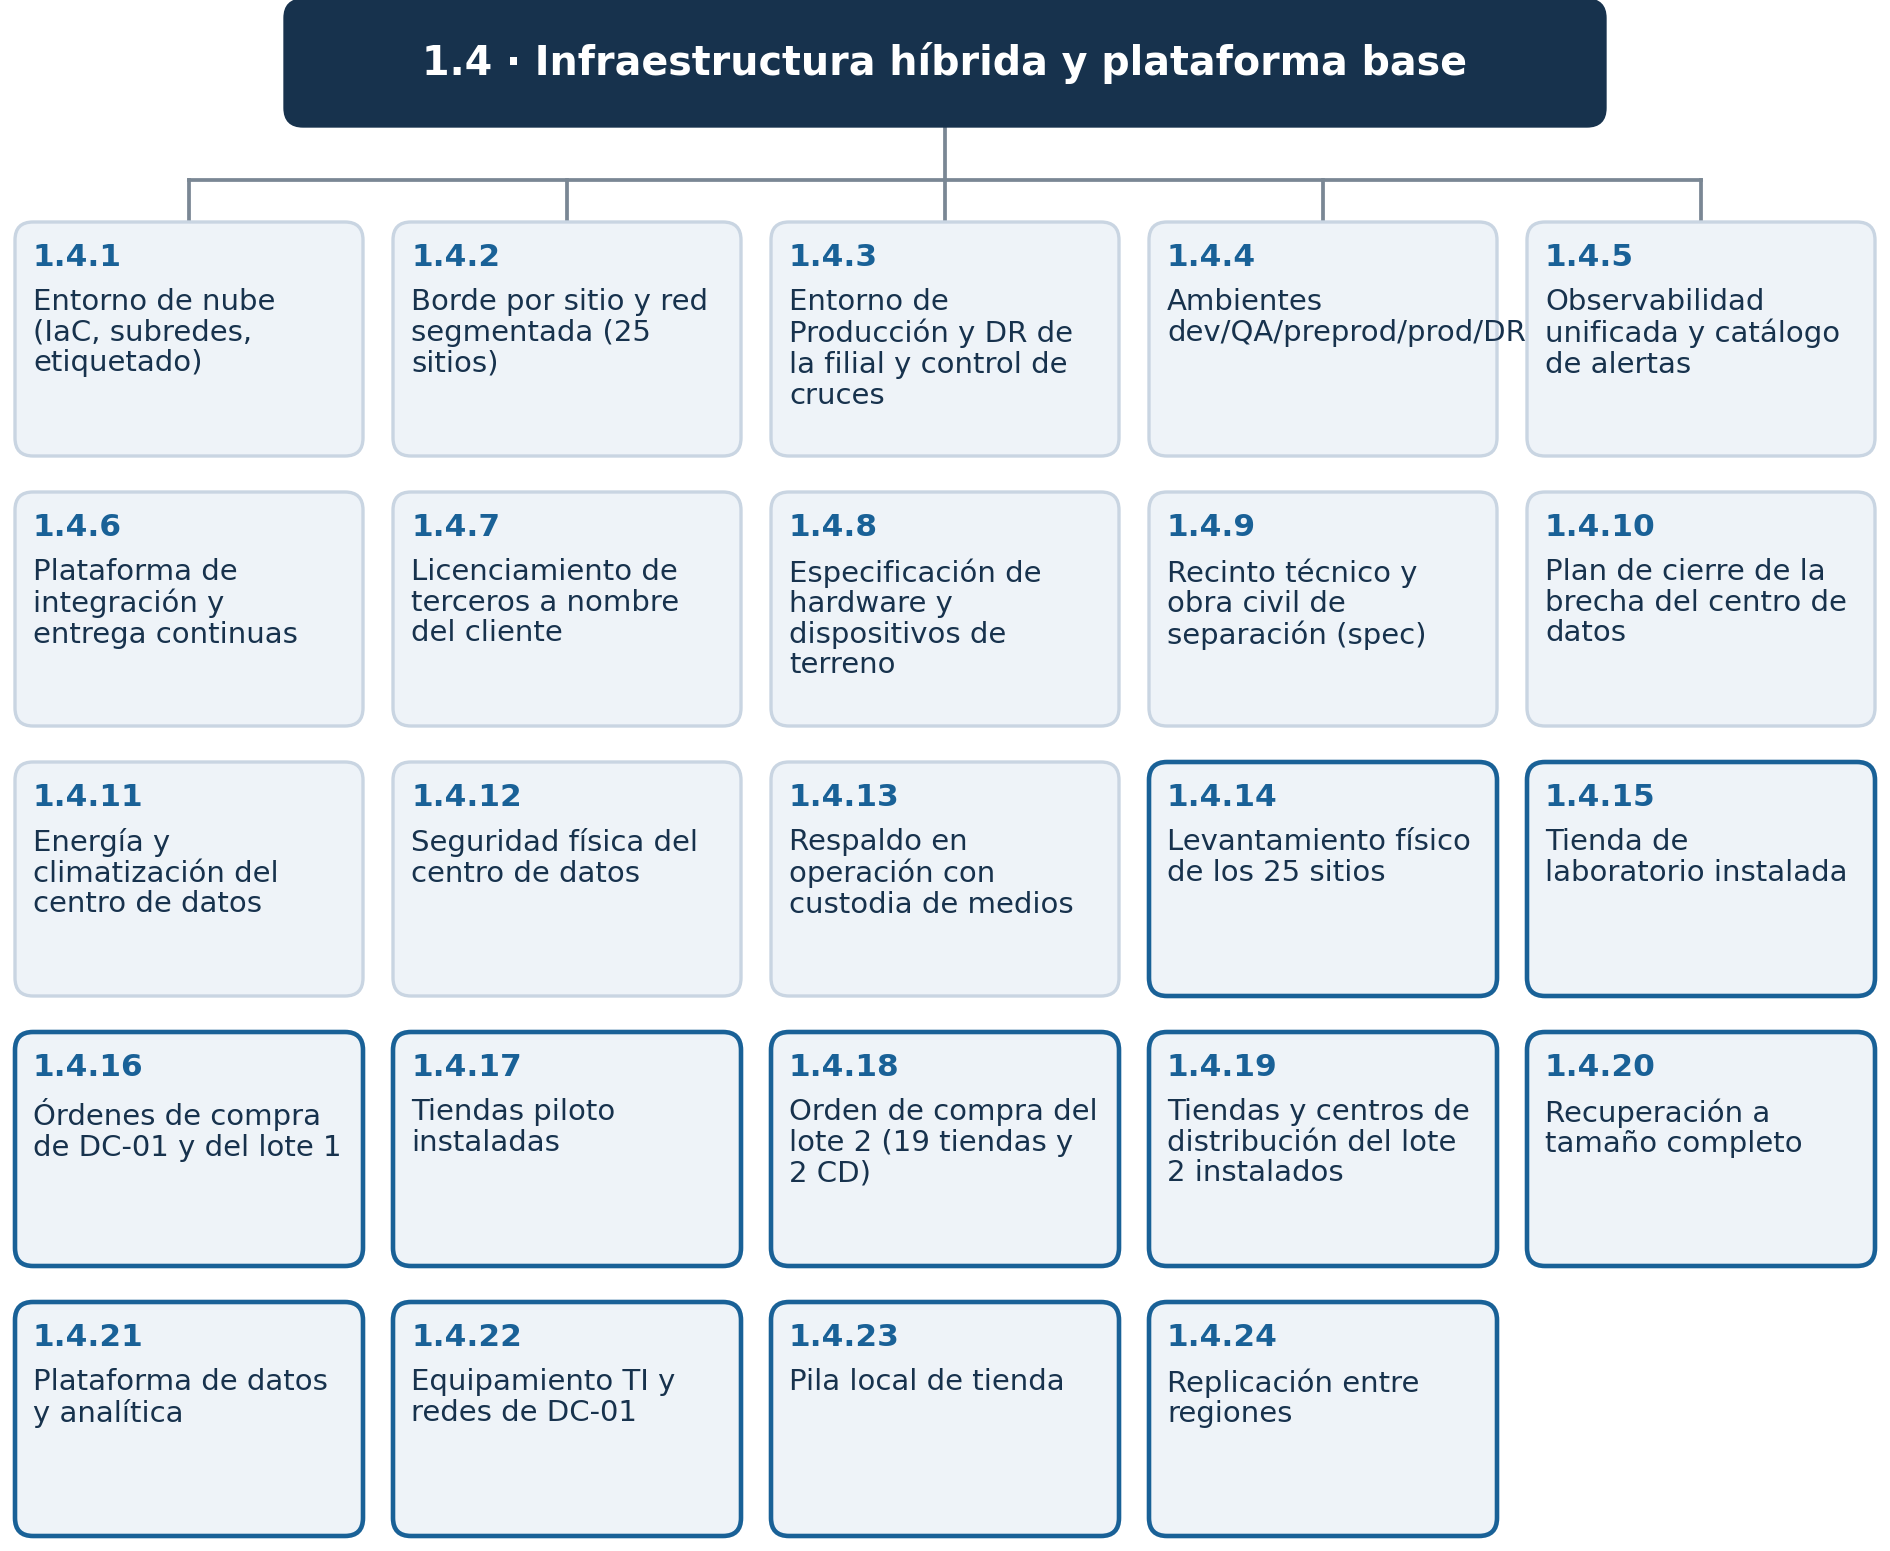
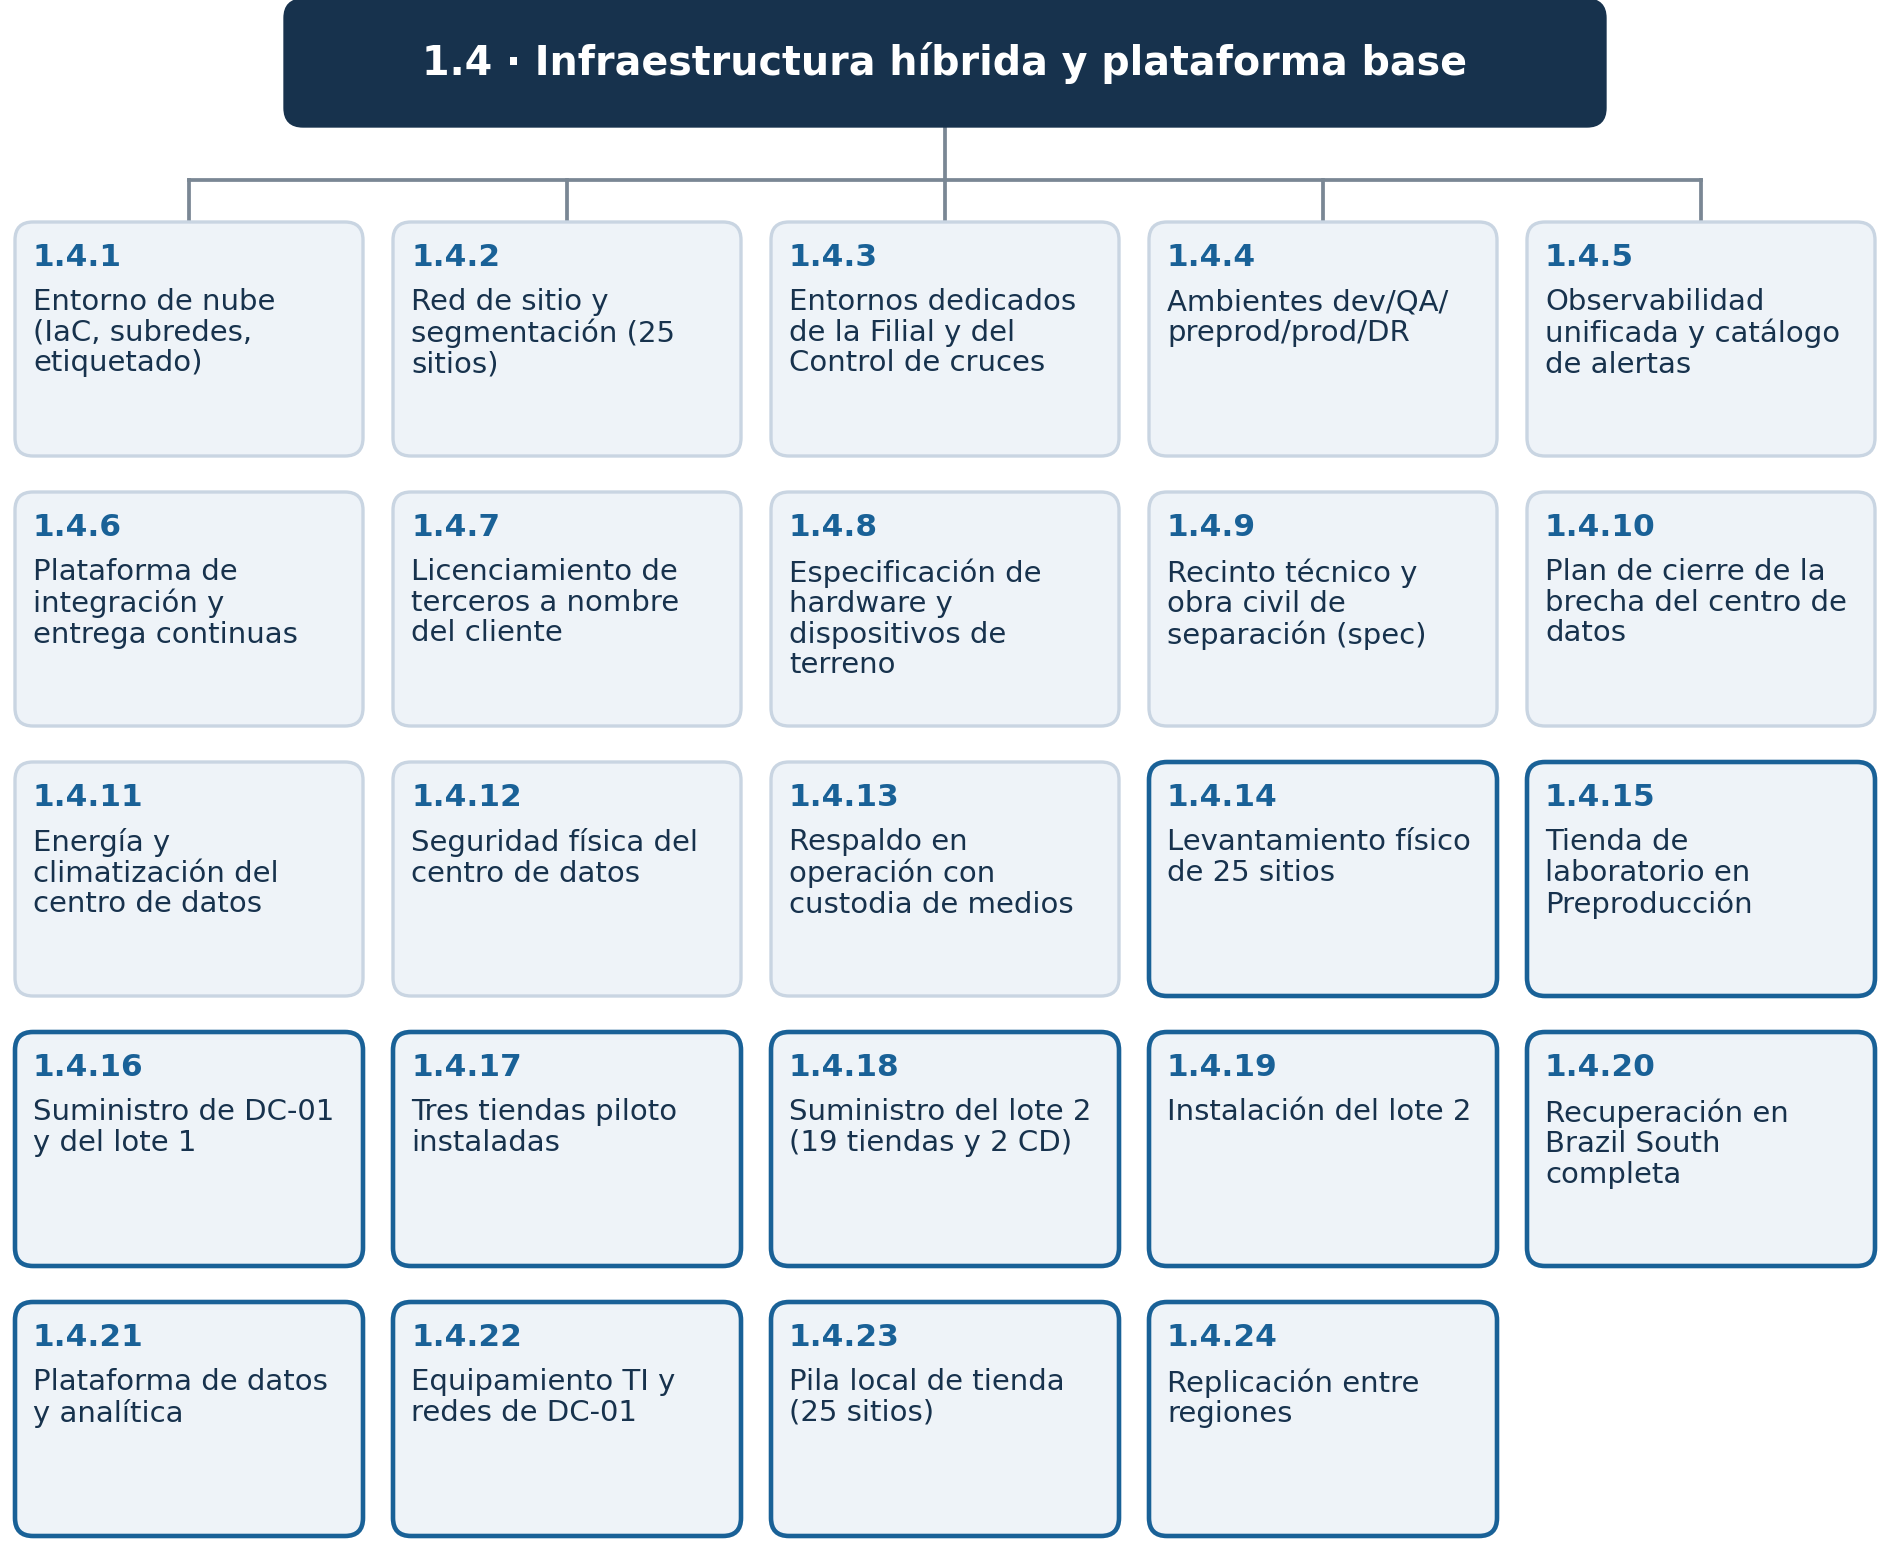
Unifica los nombres de los paquetes nuevos en el SD-07
El árbol de la rama 1.4 usa los mismos nombres que las láminas Gantt y
el diccionario del T-14, y la tabla de láminas remite a T-14.1 a T-14.18.

diff --git a/04_Adjuntos/diagramas/diag-07-06_edt-raiz-y-ramas.py b/04_Adjuntos/diagramas/diag-07-06_edt-raiz-y-ramas.py
@@ -2,6 +2,7 @@
 
 Reemplazan las imágenes importadas sd07-edt1.0/1.4/1.8.png, que mostraban 13 paquetes en 1.4 y 8 en 1.8.
 Datos: red v2/v3 del SD-07 (paquetes 1.4.14 a 1.4.24 y 1.8.9 traspasados desde el SD-04).
+Nombres iguales a los de las láminas Gantt (diag-07-04) y al diccionario del T-14.
 El título y la fuente los pone la leyenda del .tex; la imagen no los repite.
 Uso: <python con matplotlib> diag-07-06_edt-raiz-y-ramas.py
 Salida: diag-07-06_edt-1-0/1-4/1-8.(png|pdf) aquí y sd07-edt1.0/1.4/1.8.png en latex_final/figuras/sd07-figuras/.
@@ -37,8 +38,8 @@ RAMAS = [  # código, nombre, elementos de tercer nivel
 ]
 R14 = [
     'Entorno de nube (IaC, subredes, etiquetado)',
-    'Borde por sitio y red segmentada (25 sitios)',
-    'Entorno de Producción y DR de la filial y control de cruces',
+    'Red de sitio y segmentación (25 sitios)',
+    'Entornos dedicados de la Filial y del Control de cruces',
     'Ambientes dev/QA/preprod/prod/DR',
     'Observabilidad unificada y catálogo de alertas',
     'Plataforma de integración y entrega continuas',
@@ -49,16 +50,16 @@ R14 = [
     'Energía y climatización del centro de datos',
     'Seguridad física del centro de datos',
     'Respaldo en operación con custodia de medios',
-    'Levantamiento físico de los 25 sitios',
-    'Tienda de laboratorio instalada',
-    'Órdenes de compra de DC-01 y del lote 1',
-    'Tiendas piloto instaladas',
-    'Orden de compra del lote 2 (19 tiendas y 2 CD)',
-    'Tiendas y centros de distribución del lote 2 instalados',
-    'Recuperación a tamaño completo',
+    'Levantamiento físico de 25 sitios',
+    'Tienda de laboratorio en Preproducción',
+    'Suministro de DC-01 y del lote 1',
+    'Tres tiendas piloto instaladas',
+    'Suministro del lote 2 (19 tiendas y 2 CD)',
+    'Instalación del lote 2',
+    'Recuperación en Brazil South completa',
     'Plataforma de datos y analítica',
     'Equipamiento TI y redes de DC-01',
-    'Pila local de tienda',
+    'Pila local de tienda (25 sitios)',
     'Replicación entre regiones',
 ]
 R18 = [
@@ -80,8 +81,13 @@ def ajustar(ax, x, y, texto, ancho, **kw):
     def mide(t):
         tt = ax.text(0, 0, t, **kw); w = tt.get_window_extent(renderer=r).width / fig.dpi; tt.remove(); return w
     lineas, actual = [], ''
-    for palabra in texto.split():
-        prueba = (actual + ' ' + palabra).strip()
+    palabras = []
+    for w in texto.split():  # una palabra con barras puede cortarse después de cada barra
+        partes = w.split('/')
+        palabras += [p + '/' for p in partes[:-1]] + [partes[-1]] if mide(w) > ancho else [w]
+    for palabra in palabras:
+        sep = '' if actual.endswith('/') else ' '
+        prueba = (actual + sep + palabra).strip()
         if actual and mide(prueba) > ancho:
             lineas.append(actual); actual = palabra
         else:

diff --git a/02_Propuesta/latex_final/sd-07/OnlySimpleSolutions-Subdocumento7.tex b/02_Propuesta/latex_final/sd-07/OnlySimpleSolutions-Subdocumento7.tex
@@ -886,10 +886,10 @@ El detalle por paquete de trabajo está en el anexo del Formulario T-14, en 18 l
 \bottomrule
 \multicolumn{3}{@{}l}{\rule{0pt}{3.2ex}\textbf{Fuente:} Elaboración propia a partir del Formulario T-14.} \\
 \endlastfoot
-1.1 a 1.3 & T14.1 a T14.3 & Una lámina por rama \\
-1.4 Infraestructura híbrida y plataforma base & T14.4 y T14.5 & 24 paquetes \\
-1.5 Desarrollo de software & T14.6 a T14.8 & 51 cuentas de control \\
-1.6 a 1.15 & T14.9 a T14.18 & Una lámina por rama \\
+1.1 a 1.3 & T-14.1 a T-14.3 & Una lámina por rama \\
+1.4 Infraestructura híbrida y plataforma base & T-14.4 y T-14.5 & 24 paquetes \\
+1.5 Desarrollo de software & T-14.6 a T-14.8 & 51 cuentas de control \\
+1.6 a 1.15 & T-14.9 a T-14.18 & Una lámina por rama \\
 \end{longtable}
 
 Con este detalle se puede ubicar cada hora planificada en su paquete y en su mes, y ver qué paquetes no tienen margen. Esos paquetes son los que el Jefe de Proyecto controla semanalmente (§7.3.1) y los primeros en recibir las respuestas de compresión de §\ref{sec:7-3-3-2}.
